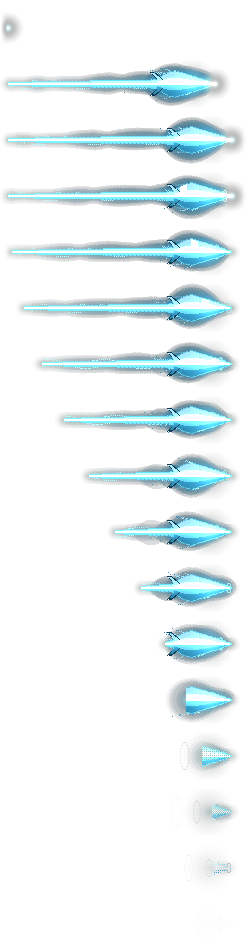
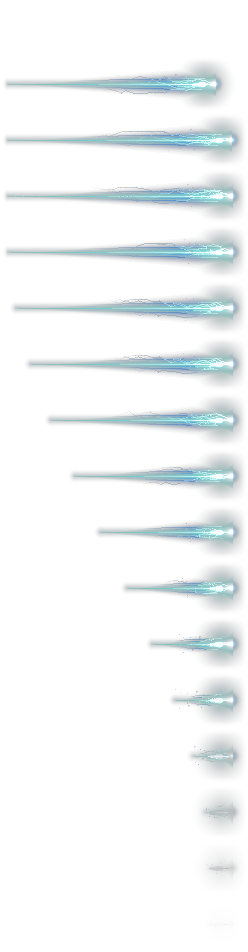
유령 창기세 대시를 혜성 같은 에너지 줄기로 (pixelfx melee/spectral-comet, 반투명+빛 더하기)
Claude-Session: https://claude.ai/code/session_01CPuQwRxjahy2BkbhjWZhoU

diff --git a/test/golem.html b/test/golem.html
@@ -388,7 +388,7 @@ const GIANT = {"body":[0,0,246,212],"body2":[248,0,246,212],"R_open":[496,0,122,
 const giantImg = new Image(); giantImg.src = "../assets/giant.png";
 // 골렘 이펙트 시트 (pixelfx로 만든 것: fire/golem-meteor, nature/lava-crater, nature/lava-spire → art/golemfx/golemfx_pack.py). px, py = 착지점
 const GFX = {"meteor": {"w": 238, "h": 300, "cols": 8, "n": 64, "fps": 15, "px": 130, "py": 270}, "crater": {"w": 232, "h": 132, "cols": 8, "n": 47, "fps": 15, "px": 116, "py": 104}, "spire": {"w": 176, "h": 114, "cols": 11, "n": 40, "fps": 15, "px": 88, "py": 98}};
-GFX.lance = {"w": 248, "h": 56, "n": 17, "fps": 30, "px": 8, "py": 28, "L": 224};   // pixelfx melee/spectral-lance: 세로로 쌓은 프레임, 창 길이 L 을 돌진 거리만큼 늘려 그린다
+GFX.lance = {"w": 248, "h": 56, "n": 17, "fps": 30, "px": 8, "py": 28, "L": 224};   // pixelfx melee/spectral-comet (전엔 spectral-lance): 세로로 쌓은 프레임, 창 길이 L 을 돌진 거리만큼 늘려 그린다
 const gfxImg = {}; for (const k in GFX) { gfxImg[k] = new Image(); gfxImg[k].src = `../assets/gfx_${k}.png`; }
 const GFX_METEOR_HIT = 0.8, GFX_SPIRE_UP = 0.2;            // 시트 안에서 운석이 닿는 때, 돌기둥이 솟는 때
 function gfx(key, x, rate = 1) { if (!ready(gfxImg[key])) return false; spawn({ kind: "gfx", key, x, t: 0, rate }); return true; }
@@ -1768,8 +1768,8 @@ function drawFxFront() {
     } else if (f.kind === "lance" && ready(gfxImg.lance)) {                 // pixelfx 유령 불길 창: 돌진하는 동안은 다 뻗은 창, 끝나면 꼬리부터 타 들어간다
       const G2 = GFX.lance, len = Math.max(30, Math.abs(f.x1 - f.x0)), sx = len / G2.L, fi = Math.min(G2.n - 1, f.hold ? 3 : 3 + Math.floor(f.age * G2.fps));
       g.save(); g.translate(Math.round(f.x0), Math.round(f.y)); g.scale(f.dir * sx, 1);
-      g.globalAlpha = 0.68; g.drawImage(gfxImg.lance, 0, fi * G2.h, G2.w, G2.h, -G2.px, -G2.py, G2.w, G2.h);                 // 반투명하게 비쳐 보이는 유령 창
-      g.globalCompositeOperation = "lighter"; g.globalAlpha = 0.28; g.drawImage(gfxImg.lance, 0, fi * G2.h, G2.w, G2.h, -G2.px, -G2.py, G2.w, G2.h);   // 위에 빛을 살짝 더해 밝게
+      g.globalAlpha = 0.7; g.drawImage(gfxImg.lance, 0, fi * G2.h, G2.w, G2.h, -G2.px, -G2.py, G2.w, G2.h);                  // 반투명 혜성
+      g.globalCompositeOperation = "lighter"; g.globalAlpha = 0.65; g.drawImage(gfxImg.lance, 0, fi * G2.h, G2.w, G2.h, -G2.px, -G2.py, G2.w, G2.h);   // 빛으로 한 번 더 더해 에너지처럼 빛나게
       g.restore();
     } else if (f.kind === "lance") {                                          // 유령 창기세 돌진: 지나간 길 전체가 거대한 창 모양 빛 (뒤는 가늘고 끝은 넓은 날)
       const u = f.t / f.life, a = 1 - u, L = (f.x1 - f.x0) * f.dir, x0 = f.x0, d = f.dir, y = f.y, w = 7 * (1 - u * 0.6);

diff --git a/test/helm.html b/test/helm.html
@@ -392,7 +392,7 @@ const GIANT = {"body":[0,0,246,212],"body2":[248,0,246,212],"R_open":[496,0,122,
 const giantImg = new Image(); giantImg.src = "../assets/giant.png";
 // 골렘 이펙트 시트 (pixelfx로 만든 것: fire/golem-meteor, nature/lava-crater, nature/lava-spire → art/golemfx/golemfx_pack.py). px, py = 착지점
 const GFX = {"meteor": {"w": 238, "h": 300, "cols": 8, "n": 64, "fps": 15, "px": 130, "py": 270}, "crater": {"w": 232, "h": 132, "cols": 8, "n": 47, "fps": 15, "px": 116, "py": 104}, "spire": {"w": 176, "h": 114, "cols": 11, "n": 40, "fps": 15, "px": 88, "py": 98}};
-GFX.lance = {"w": 248, "h": 56, "n": 17, "fps": 30, "px": 8, "py": 28, "L": 224};   // pixelfx melee/spectral-lance: 세로로 쌓은 프레임, 창 길이 L 을 돌진 거리만큼 늘려 그린다
+GFX.lance = {"w": 248, "h": 56, "n": 17, "fps": 30, "px": 8, "py": 28, "L": 224};   // pixelfx melee/spectral-comet (전엔 spectral-lance): 세로로 쌓은 프레임, 창 길이 L 을 돌진 거리만큼 늘려 그린다
 const gfxImg = {}; for (const k in GFX) { gfxImg[k] = new Image(); gfxImg[k].src = `../assets/gfx_${k}.png`; }
 const GFX_METEOR_HIT = 0.8, GFX_SPIRE_UP = 0.2;            // 시트 안에서 운석이 닿는 때, 돌기둥이 솟는 때
 function gfx(key, x, rate = 1) { if (!ready(gfxImg[key])) return false; spawn({ kind: "gfx", key, x, t: 0, rate }); return true; }
@@ -1772,8 +1772,8 @@ function drawFxFront() {
     } else if (f.kind === "lance" && ready(gfxImg.lance)) {                 // pixelfx 유령 불길 창: 돌진하는 동안은 다 뻗은 창, 끝나면 꼬리부터 타 들어간다
       const G2 = GFX.lance, len = Math.max(30, Math.abs(f.x1 - f.x0)), sx = len / G2.L, fi = Math.min(G2.n - 1, f.hold ? 3 : 3 + Math.floor(f.age * G2.fps));
       g.save(); g.translate(Math.round(f.x0), Math.round(f.y)); g.scale(f.dir * sx, 1);
-      g.globalAlpha = 0.68; g.drawImage(gfxImg.lance, 0, fi * G2.h, G2.w, G2.h, -G2.px, -G2.py, G2.w, G2.h);                 // 반투명하게 비쳐 보이는 유령 창
-      g.globalCompositeOperation = "lighter"; g.globalAlpha = 0.28; g.drawImage(gfxImg.lance, 0, fi * G2.h, G2.w, G2.h, -G2.px, -G2.py, G2.w, G2.h);   // 위에 빛을 살짝 더해 밝게
+      g.globalAlpha = 0.7; g.drawImage(gfxImg.lance, 0, fi * G2.h, G2.w, G2.h, -G2.px, -G2.py, G2.w, G2.h);                  // 반투명 혜성
+      g.globalCompositeOperation = "lighter"; g.globalAlpha = 0.65; g.drawImage(gfxImg.lance, 0, fi * G2.h, G2.w, G2.h, -G2.px, -G2.py, G2.w, G2.h);   // 빛으로 한 번 더 더해 에너지처럼 빛나게
       g.restore();
     } else if (f.kind === "lance") {                                          // 유령 창기세 돌진: 지나간 길 전체가 거대한 창 모양 빛 (뒤는 가늘고 끝은 넓은 날)
       const u = f.t / f.life, a = 1 - u, L = (f.x1 - f.x0) * f.dir, x0 = f.x0, d = f.dir, y = f.y, w = 7 * (1 - u * 0.6);

diff --git a/test/sword.html b/test/sword.html
@@ -388,7 +388,7 @@ const GIANT = {"body":[0,0,246,212],"body2":[248,0,246,212],"R_open":[496,0,122,
 const giantImg = new Image(); giantImg.src = "../assets/giant.png";
 // 골렘 이펙트 시트 (pixelfx로 만든 것: fire/golem-meteor, nature/lava-crater, nature/lava-spire → art/golemfx/golemfx_pack.py). px, py = 착지점
 const GFX = {"meteor": {"w": 238, "h": 300, "cols": 8, "n": 64, "fps": 15, "px": 130, "py": 270}, "crater": {"w": 232, "h": 132, "cols": 8, "n": 47, "fps": 15, "px": 116, "py": 104}, "spire": {"w": 176, "h": 114, "cols": 11, "n": 40, "fps": 15, "px": 88, "py": 98}};
-GFX.lance = {"w": 248, "h": 56, "n": 17, "fps": 30, "px": 8, "py": 28, "L": 224};   // pixelfx melee/spectral-lance: 세로로 쌓은 프레임, 창 길이 L 을 돌진 거리만큼 늘려 그린다
+GFX.lance = {"w": 248, "h": 56, "n": 17, "fps": 30, "px": 8, "py": 28, "L": 224};   // pixelfx melee/spectral-comet (전엔 spectral-lance): 세로로 쌓은 프레임, 창 길이 L 을 돌진 거리만큼 늘려 그린다
 const gfxImg = {}; for (const k in GFX) { gfxImg[k] = new Image(); gfxImg[k].src = `../assets/gfx_${k}.png`; }
 const GFX_METEOR_HIT = 0.8, GFX_SPIRE_UP = 0.2;            // 시트 안에서 운석이 닿는 때, 돌기둥이 솟는 때
 function gfx(key, x, rate = 1) { if (!ready(gfxImg[key])) return false; spawn({ kind: "gfx", key, x, t: 0, rate }); return true; }
@@ -1768,8 +1768,8 @@ function drawFxFront() {
     } else if (f.kind === "lance" && ready(gfxImg.lance)) {                 // pixelfx 유령 불길 창: 돌진하는 동안은 다 뻗은 창, 끝나면 꼬리부터 타 들어간다
       const G2 = GFX.lance, len = Math.max(30, Math.abs(f.x1 - f.x0)), sx = len / G2.L, fi = Math.min(G2.n - 1, f.hold ? 3 : 3 + Math.floor(f.age * G2.fps));
       g.save(); g.translate(Math.round(f.x0), Math.round(f.y)); g.scale(f.dir * sx, 1);
-      g.globalAlpha = 0.68; g.drawImage(gfxImg.lance, 0, fi * G2.h, G2.w, G2.h, -G2.px, -G2.py, G2.w, G2.h);                 // 반투명하게 비쳐 보이는 유령 창
-      g.globalCompositeOperation = "lighter"; g.globalAlpha = 0.28; g.drawImage(gfxImg.lance, 0, fi * G2.h, G2.w, G2.h, -G2.px, -G2.py, G2.w, G2.h);   // 위에 빛을 살짝 더해 밝게
+      g.globalAlpha = 0.7; g.drawImage(gfxImg.lance, 0, fi * G2.h, G2.w, G2.h, -G2.px, -G2.py, G2.w, G2.h);                  // 반투명 혜성
+      g.globalCompositeOperation = "lighter"; g.globalAlpha = 0.65; g.drawImage(gfxImg.lance, 0, fi * G2.h, G2.w, G2.h, -G2.px, -G2.py, G2.w, G2.h);   // 빛으로 한 번 더 더해 에너지처럼 빛나게
       g.restore();
     } else if (f.kind === "lance") {                                          // 유령 창기세 돌진: 지나간 길 전체가 거대한 창 모양 빛 (뒤는 가늘고 끝은 넓은 날)
       const u = f.t / f.life, a = 1 - u, L = (f.x1 - f.x0) * f.dir, x0 = f.x0, d = f.dir, y = f.y, w = 7 * (1 - u * 0.6);

diff --git a/index.html b/index.html
@@ -389,7 +389,7 @@ const GIANT = {"body":[0,0,246,212],"body2":[248,0,246,212],"R_open":[496,0,122,
 const giantImg = new Image(); giantImg.src = "assets/giant.png";
 // 골렘 이펙트 시트 (pixelfx로 만든 것: fire/golem-meteor, nature/lava-crater, nature/lava-spire → art/golemfx/golemfx_pack.py). px, py = 착지점
 const GFX = {"meteor": {"w": 238, "h": 300, "cols": 8, "n": 64, "fps": 15, "px": 130, "py": 270}, "crater": {"w": 232, "h": 132, "cols": 8, "n": 47, "fps": 15, "px": 116, "py": 104}, "spire": {"w": 176, "h": 114, "cols": 11, "n": 40, "fps": 15, "px": 88, "py": 98}};
-GFX.lance = {"w": 248, "h": 56, "n": 17, "fps": 30, "px": 8, "py": 28, "L": 224};   // pixelfx melee/spectral-lance: 세로로 쌓은 프레임, 창 길이 L 을 돌진 거리만큼 늘려 그린다
+GFX.lance = {"w": 248, "h": 56, "n": 17, "fps": 30, "px": 8, "py": 28, "L": 224};   // pixelfx melee/spectral-comet (전엔 spectral-lance): 세로로 쌓은 프레임, 창 길이 L 을 돌진 거리만큼 늘려 그린다
 const gfxImg = {}; for (const k in GFX) { gfxImg[k] = new Image(); gfxImg[k].src = `assets/gfx_${k}.png`; }
 const GFX_METEOR_HIT = 0.8, GFX_SPIRE_UP = 0.2;            // 시트 안에서 운석이 닿는 때, 돌기둥이 솟는 때
 function gfx(key, x, rate = 1) { if (!ready(gfxImg[key])) return false; spawn({ kind: "gfx", key, x, t: 0, rate }); return true; }
@@ -1769,8 +1769,8 @@ function drawFxFront() {
     } else if (f.kind === "lance" && ready(gfxImg.lance)) {                 // pixelfx 유령 불길 창: 돌진하는 동안은 다 뻗은 창, 끝나면 꼬리부터 타 들어간다
       const G2 = GFX.lance, len = Math.max(30, Math.abs(f.x1 - f.x0)), sx = len / G2.L, fi = Math.min(G2.n - 1, f.hold ? 3 : 3 + Math.floor(f.age * G2.fps));
       g.save(); g.translate(Math.round(f.x0), Math.round(f.y)); g.scale(f.dir * sx, 1);
-      g.globalAlpha = 0.68; g.drawImage(gfxImg.lance, 0, fi * G2.h, G2.w, G2.h, -G2.px, -G2.py, G2.w, G2.h);                 // 반투명하게 비쳐 보이는 유령 창
-      g.globalCompositeOperation = "lighter"; g.globalAlpha = 0.28; g.drawImage(gfxImg.lance, 0, fi * G2.h, G2.w, G2.h, -G2.px, -G2.py, G2.w, G2.h);   // 위에 빛을 살짝 더해 밝게
+      g.globalAlpha = 0.7; g.drawImage(gfxImg.lance, 0, fi * G2.h, G2.w, G2.h, -G2.px, -G2.py, G2.w, G2.h);                  // 반투명 혜성
+      g.globalCompositeOperation = "lighter"; g.globalAlpha = 0.65; g.drawImage(gfxImg.lance, 0, fi * G2.h, G2.w, G2.h, -G2.px, -G2.py, G2.w, G2.h);   // 빛으로 한 번 더 더해 에너지처럼 빛나게
       g.restore();
     } else if (f.kind === "lance") {                                          // 유령 창기세 돌진: 지나간 길 전체가 거대한 창 모양 빛 (뒤는 가늘고 끝은 넓은 날)
       const u = f.t / f.life, a = 1 - u, L = (f.x1 - f.x0) * f.dir, x0 = f.x0, d = f.dir, y = f.y, w = 7 * (1 - u * 0.6);
